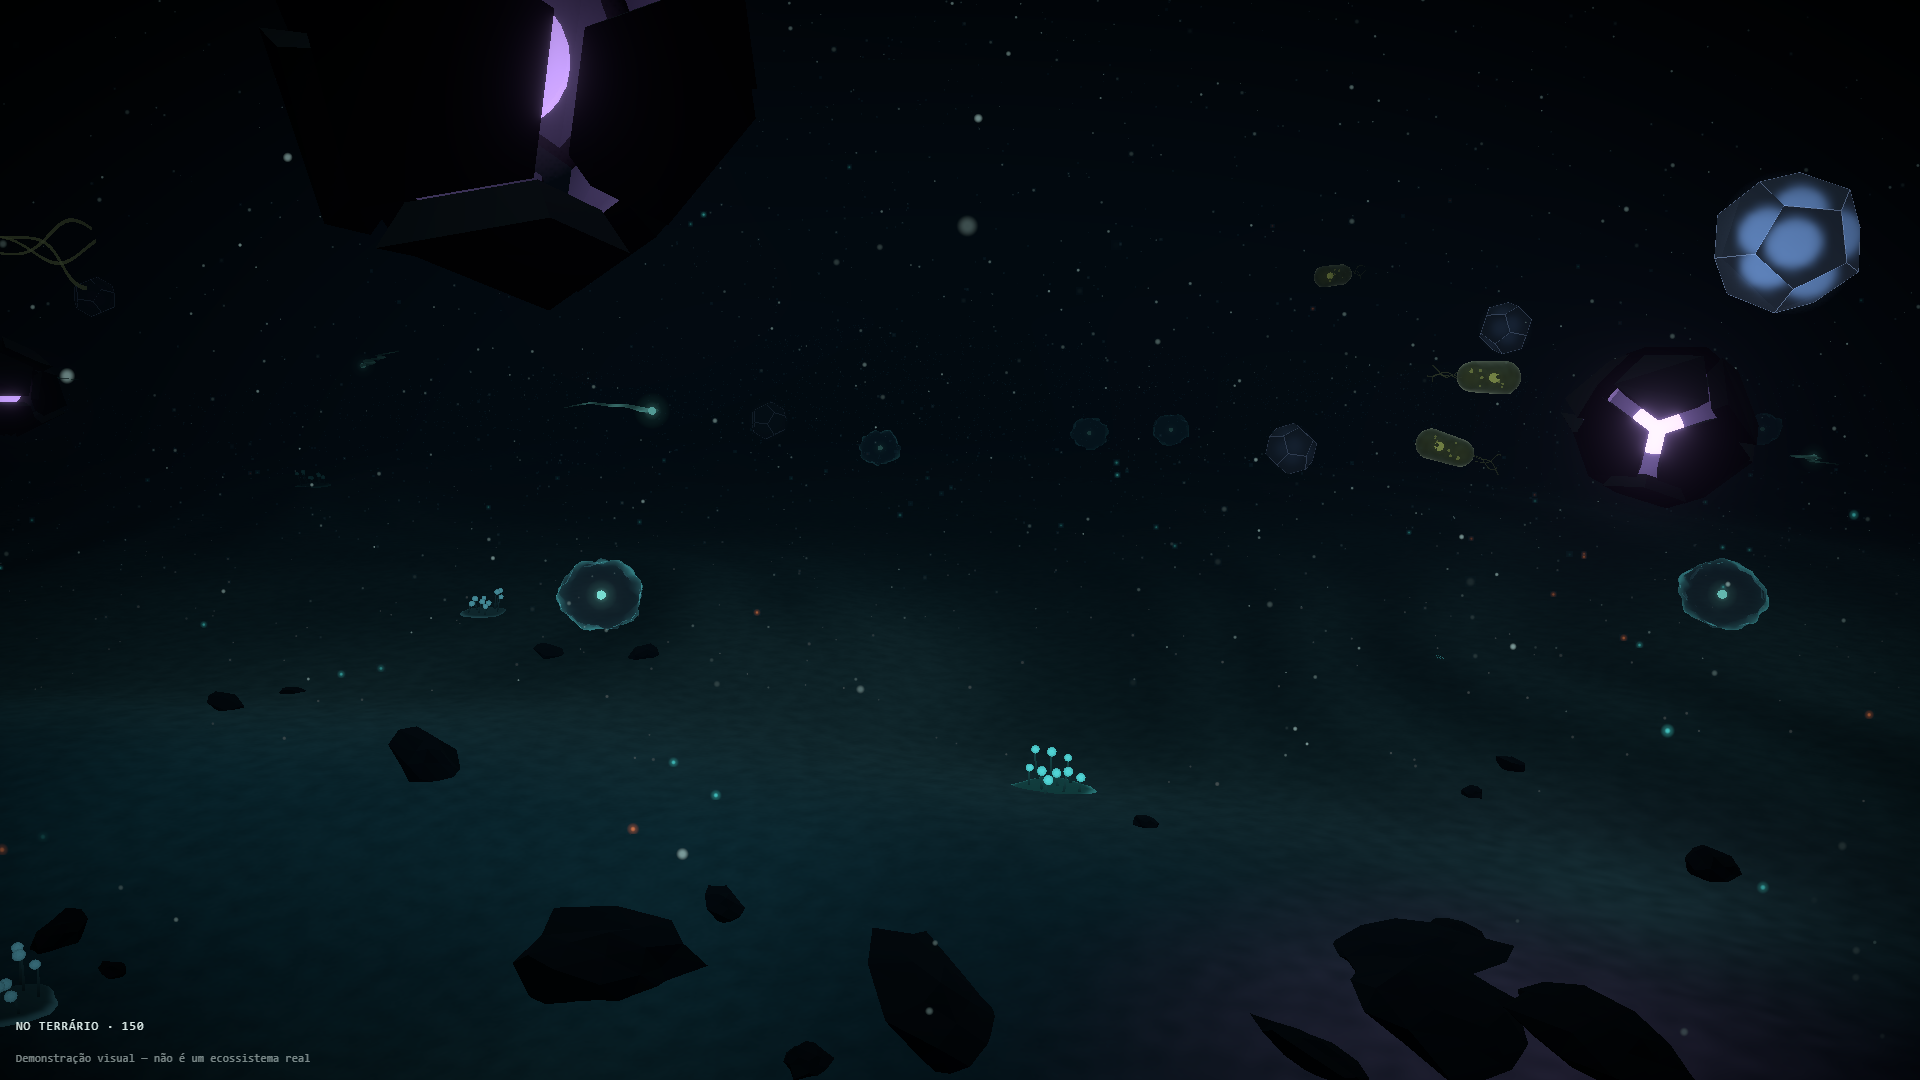
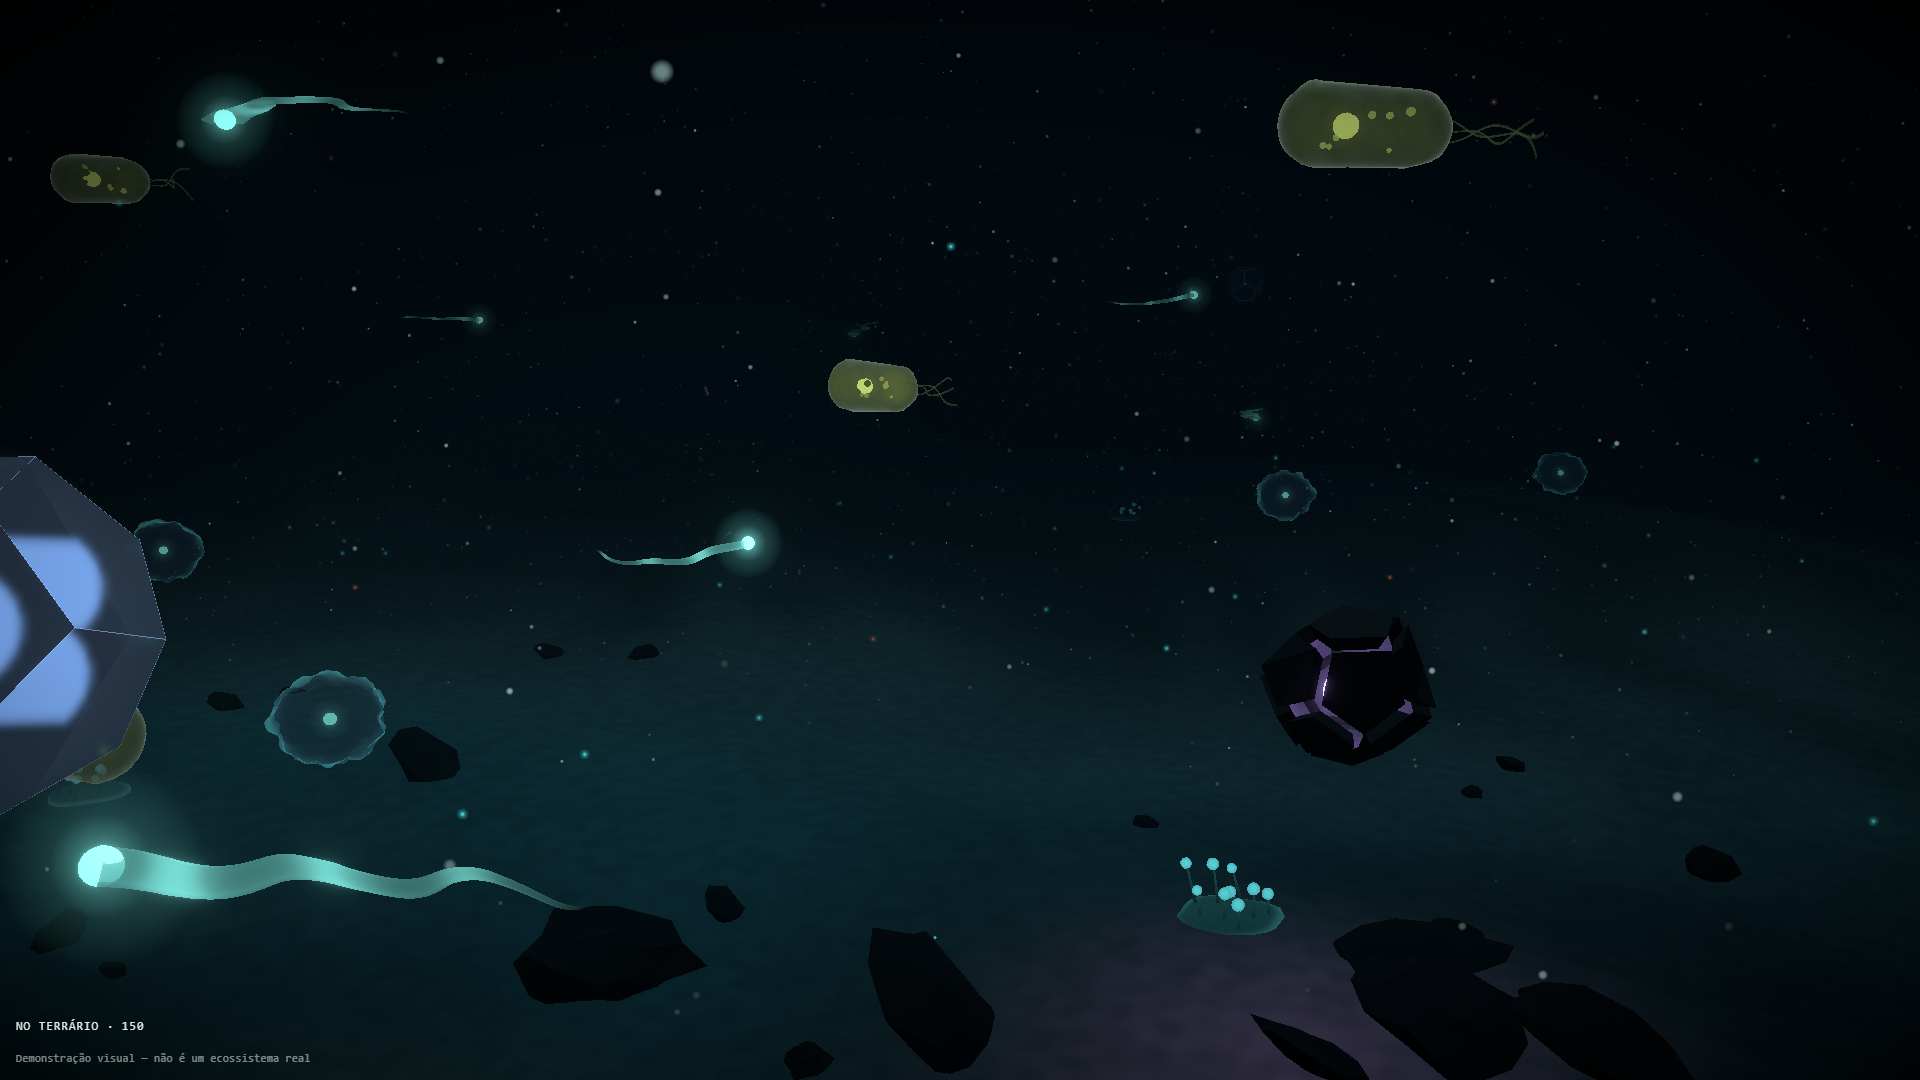
art: transição mais longa entre o Jardim e a Planície

diff --git a/apps/web/src/scene/environment/Particles.tsx b/apps/web/src/scene/environment/Particles.tsx
@@ -5,10 +5,9 @@ import { clampDelta } from '../../lib/motion';
 import { PALETTE } from '../../lib/palette';
 import { createRng } from '../../lib/random';
 import { useSceneSettings } from '../../settings';
-import { MAP } from '../../world/map';
 import { foggyShader } from '../glsl/material';
 import { pointScale } from '../glsl/points';
-import { JARDIM_CORE, JARDIM_FADE } from '../terrain';
+import { PLANICIE_WEIGHT_GLSL } from '../regionTint';
 
 /**
  * Volume onde a neve marinha deriva. Anda com a câmera em x e z (a faixa de altura é fixa),
@@ -33,17 +32,11 @@ const LAYERS = [
  * e caem de verdade, devagar. Ficam sempre no mesmo Points; fora da Planície têm tamanho zero.
  */
 const PLAIN_EXTRA = 1.5;
-const PLAIN = MAP.regions.find((r) => r.id === 'planicie')!;
-/** Passagem da neve da Planície na borda dela (unidades para fora e para dentro do raio). */
-const PLAIN_EDGE_OUT = 4;
-const PLAIN_EDGE_IN = 10;
 
 const vertex = /* glsl */ `
 attribute float aSize;
 attribute float aSeed;
 attribute float aPlain;
-uniform vec3 uPlain;
-uniform vec2 uCore;
 uniform float uTime;
 uniform float uPointScale;
 uniform vec3 uBoxMin;
@@ -51,6 +44,7 @@ uniform vec3 uBoxSize;
 varying float vTwinkle;
 varying float vNear;
 #include <fog_pars_vertex>
+${PLANICIE_WEIGHT_GLSL}
 void main() {
   // Os flocos da Planície caem (~0,1 u/s); os outros quase só derivam.
   vec3 current = mix(vec3(0.12, -0.035, 0.05), vec3(0.05, -0.11, 0.03), aPlain) * (0.6 + aSeed);
@@ -59,9 +53,9 @@ void main() {
   p.y += cos(uTime * 0.23 + aSeed * 17.0) * 0.2;
   p = uBoxMin + mod(p - uBoxMin, uBoxSize);
   vTwinkle = 0.55 + 0.45 * sin(uTime * (0.6 + aSeed) + aSeed * 60.0);
-  // Quanto este ponto do mundo é Planície (nunca no miolo do Jardim); lá a neve é mais densa no alto.
-  float plain = (1.0 - smoothstep(uPlain.z - ${PLAIN_EDGE_IN.toFixed(1)}, uPlain.z + ${PLAIN_EDGE_OUT.toFixed(1)}, distance(p.xz, uPlain.xy)))
-    * smoothstep(uCore.x, uCore.y, length(p.xz));
+  // Quanto este ponto do mundo é Planície: o mesmo peso do leito, da luz e da névoa (zero no miolo
+  // do Jardim). Lá a neve é mais densa no alto.
+  float plain = planicieWeight(p.xz);
   float high = mix(0.55, 1.0, clamp((p.y - uBoxMin.y) / uBoxSize.y, 0.0, 1.0));
   float show = mix(1.0, plain * high, aPlain);
   vTwinkle *= show;
@@ -138,8 +132,6 @@ export function Particles() {
         uPointScale: { value: 1 },
         uBoxMin: { value: new THREE.Vector3(-BOX_SIZE.x / 2, BOX_Y_MIN, -BOX_SIZE.z / 2) },
         uBoxSize: { value: BOX_SIZE },
-        uPlain: { value: new THREE.Vector3(PLAIN.center[0], PLAIN.center[1], PLAIN.radius) },
-        uCore: { value: new THREE.Vector2(JARDIM_CORE, JARDIM_CORE + JARDIM_FADE) },
         uColor: { value: new THREE.Color(PALETTE.fg).lerp(new THREE.Color(PALETTE.cyan), 0.35) },
       },
     });

diff --git a/apps/web/src/scene/regionTint.ts b/apps/web/src/scene/regionTint.ts
@@ -1,7 +1,7 @@
 import { Color } from 'three';
 import { PALETTE } from '../lib/palette';
 import { MAP, regionWeightsInto, type RegionId } from '../world/map';
-import { JARDIM_CORE, JARDIM_FADE } from './terrain';
+import { JARDIM_CORE } from './terrain';
 
 /** Névoa (e fundo), céu da luz hemisférica e intensidade da luz ambiente num ponto do mapa. */
 export interface RegionTint {
@@ -41,9 +41,15 @@ const smoothstep = (a: number, b: number, x: number) => {
   return t * t * (3 - 2 * t);
 };
 
-/** 0 no miolo aprovado do Jardim, 1 a partir do fim da passagem do leito: nada lá dentro muda. */
+/**
+ * Fim da passagem do miolo do Jardim para as outras regiões (luz, névoa, cor do leito, luz da comida e
+ * neve). Mais longa que a do relevo (JARDIM_CORE + JARDIM_FADE = 32): a Planície chega aos poucos.
+ */
+export const REGION_FADE_END = 40;
+
+/** 0 no miolo aprovado do Jardim, 1 a partir de REGION_FADE_END: nada lá dentro muda. */
 export const outsideJardimCore = (x: number, z: number): number =>
-  smoothstep(JARDIM_CORE, JARDIM_CORE + JARDIM_FADE, Math.hypot(x, z));
+  smoothstep(JARDIM_CORE, REGION_FADE_END, Math.hypot(x, z));
 
 /** Rascunho dos pesos: as funções abaixo rodam a cada quadro e não alocam. */
 const weights: Record<RegionId, number> = { jardim: 0, floresta: 0, planicie: 0 };
@@ -89,3 +95,29 @@ export function regionTint(
   out.ambient = JARDIM.ambient + (amb - JARDIM.ambient) * k;
   return out;
 }
+
+/**
+ * `planicieWeight` em GLSL, gerado a partir do mesmo mapa e das mesmas constantes, para shaders que
+ * precisam do peso por ponto do mundo (a neve que cai). Define `float planicieWeight(vec2 p)`.
+ */
+export const PLANICIE_WEIGHT_GLSL = (() => {
+  const f = (v: number) => v.toFixed(4);
+  const regions = MAP.regions;
+  const depth = regions
+    .map((r, i) => `  float d${i} = ${f(r.radius)} - distance(p, vec2(${f(r.center[0])}, ${f(r.center[1])}));`)
+    .join('\n');
+  const top = regions.map((_, i) => `d${i}`).reduce((a, b) => `max(${a}, ${b})`);
+  const exps = regions.map((_, i) => `  float e${i} = exp((d${i} - top) / ${f(TINT_BLEND)});`).join('\n');
+  const sum = regions.map((_, i) => `e${i}`).join(' + ');
+  const plain = regions.findIndex((r) => r.id === 'planicie');
+  return `
+float planicieWeight(vec2 p) {
+  float core = smoothstep(${f(JARDIM_CORE)}, ${f(REGION_FADE_END)}, length(p));
+  if (core <= 0.0) return 0.0;
+${depth}
+  float top = ${top};
+${exps}
+  return e${plain} / (${sum}) * core;
+}
+`;
+})();

diff --git a/apps/web/src/scene/regionTint.test.ts b/apps/web/src/scene/regionTint.test.ts
@@ -1,7 +1,7 @@
 import { Color } from 'three';
 import { PALETTE } from '../lib/palette';
 import { MAP } from '../world/map';
-import { regionTint } from './regionTint';
+import { planicieWeight, regionTint } from './regionTint';
 
 const luminance = (c: Color) => 0.2126 * c.r + 0.7152 * c.g + 0.0722 * c.b;
 /** Quanto do total é azul: maior = mais frio. */
@@ -79,4 +79,33 @@ it('escreve em `out` sem alocar quando recebe um', () => {
   // O mesmo `out` reaproveitado na costura e no Jardim continua dando os valores certos.
   expect(regionTint(27, -12, out)).toEqual(regionTint(27, -12));
   expect(regionTint(0, 0, out)).toEqual(regionTint(0, 0));
+});
+
+describe('planicieWeight', () => {
+  /** Ponto a distância `r` da origem, na direção do centro da Planície. */
+  const towardPlain = (r: number): [number, number] => {
+    const [cx, cz] = planicie.center;
+    const len = Math.hypot(cx, cz);
+    return [(cx / len) * r, (cz / len) * r];
+  };
+
+  it('é exatamente 0 no miolo aprovado do Jardim', () => {
+    for (let r = 0; r <= 26; r += 0.5)
+      for (let a = 0; a < Math.PI * 2; a += Math.PI / 12) {
+        const [x, z] = [Math.cos(a) * r, Math.sin(a) * r];
+        // Em ponto flutuante cos·26, sin·26 pode cair um fio além de 26: só vale o que está dentro.
+        if (Math.hypot(x, z) <= 26) expect(planicieWeight(x, z)).toBe(0);
+      }
+    expect(planicieWeight(...towardPlain(26))).toBe(0);
+  });
+
+  it('passa devagar de r 26 a ~40, só chegando ao platô bem dentro', () => {
+    const w = (r: number) => planicieWeight(...towardPlain(r));
+    // Na borda da passagem antiga (r 32) ainda é parcial.
+    expect(w(32)).toBeGreaterThan(0.2);
+    expect(w(32)).toBeLessThan(0.6);
+    expect(w(36)).toBeLessThan(0.95);
+    expect(w(42)).toBeGreaterThan(0.95);
+    for (let r = 26; r < 42; r += 0.5) expect(w(r + 0.5)).toBeGreaterThanOrEqual(w(r));
+  });
 });
